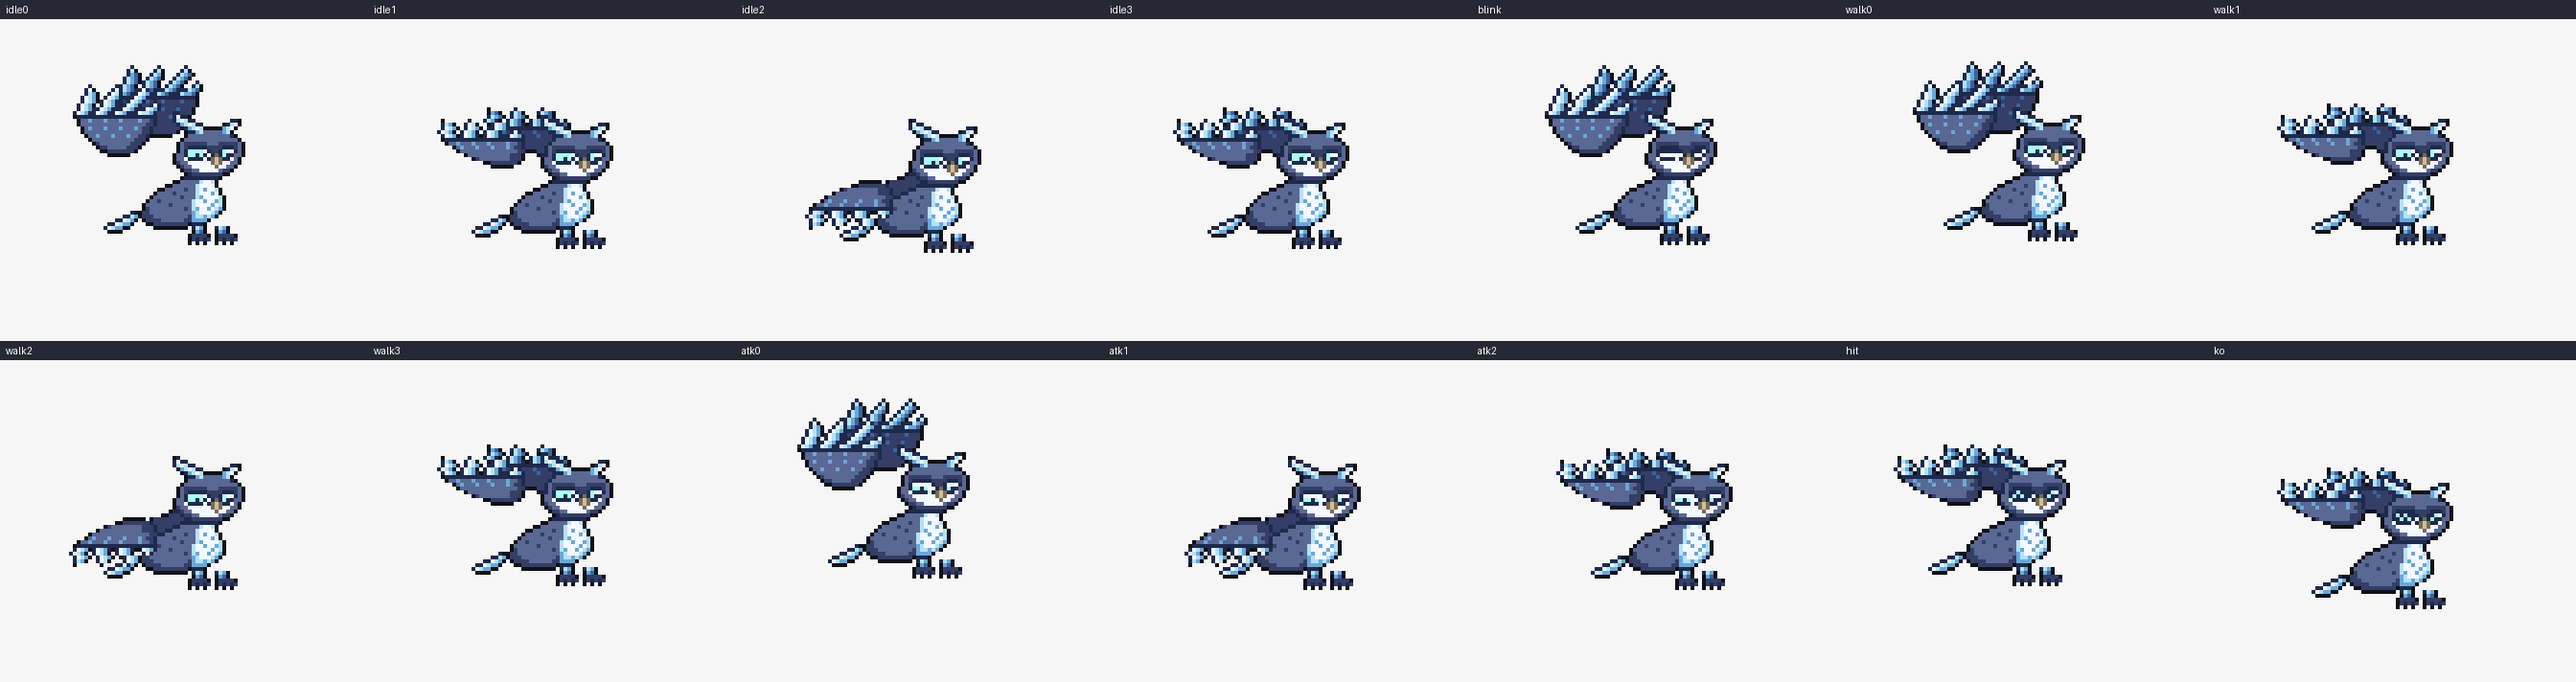
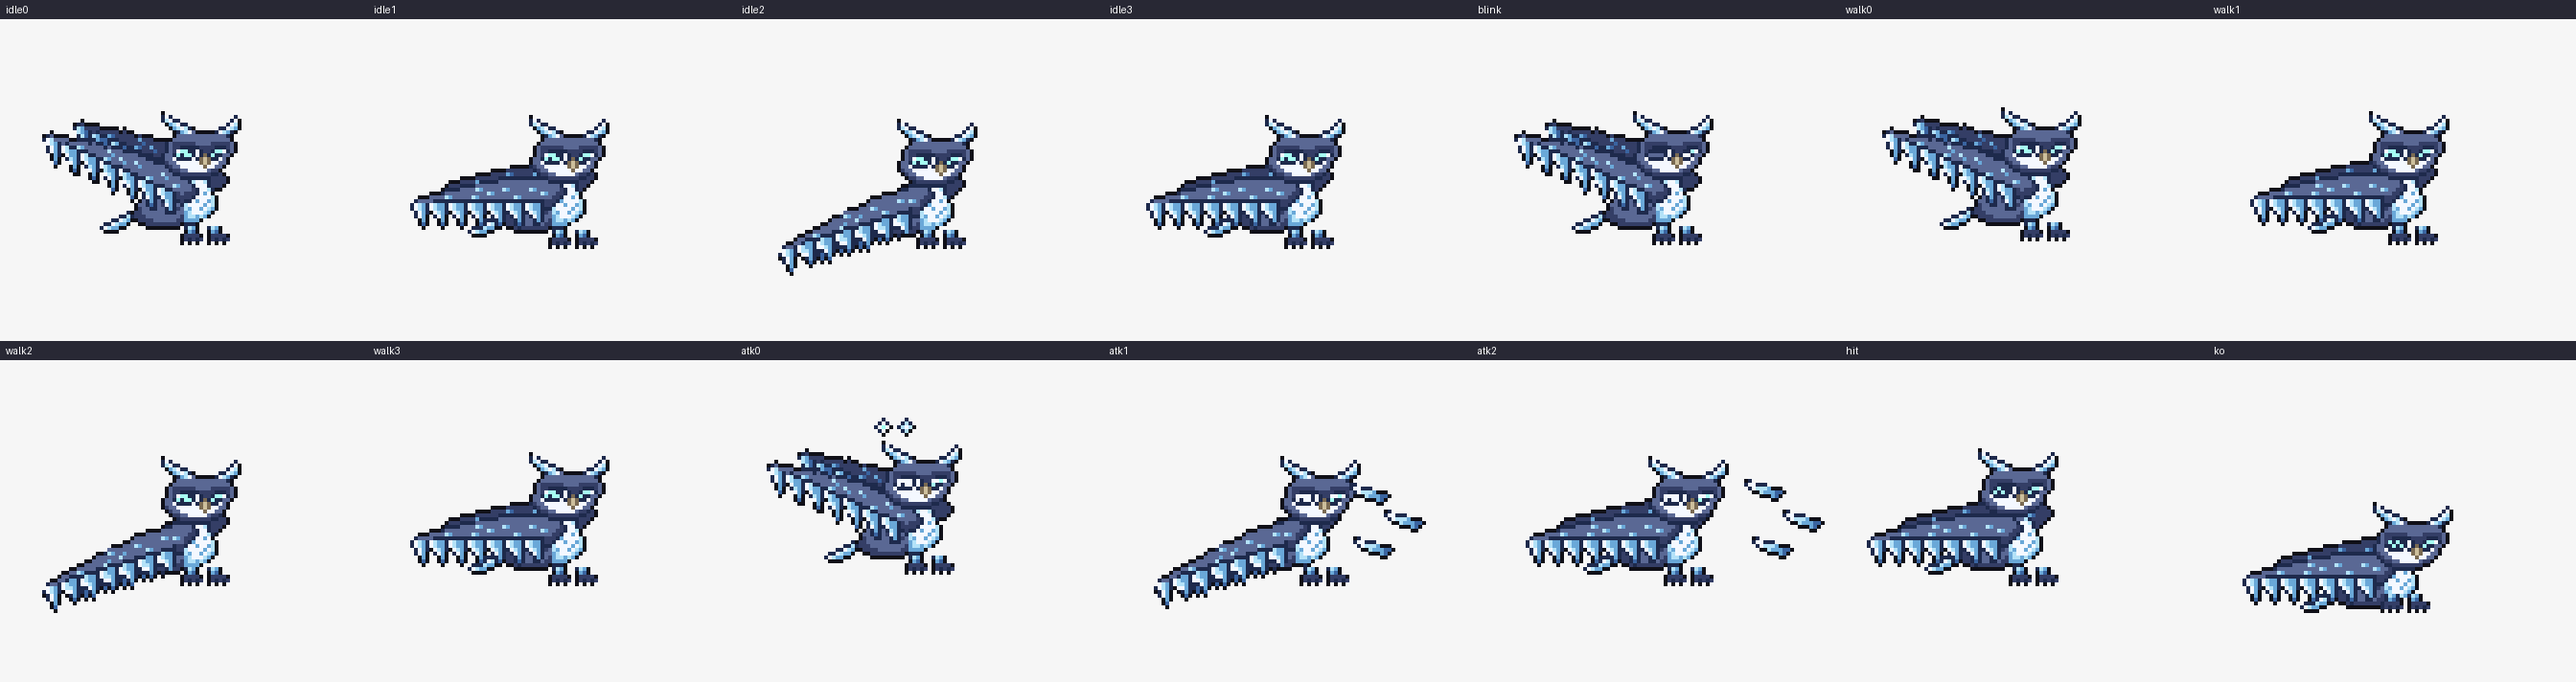
WIP: コオリミミズク 作業中
Claude-Session: https://claude.ai/code/session_01J9mYv3PRYW1GKv9GU2f7rQ

diff --git a/tools/monsters/koorimimizuku/mon.py b/tools/monsters/koorimimizuku/mon.py
@@ -10,28 +10,28 @@ PAL = {
 LIGHT = set('WIEG')
 
 HEAD = [
-    'kk.......................',
-    'kWkk.....................',
-    'kIWIkk.........kkk.......',
-    '.kJIWIkk.....kkIWk.......',
-    '..kkJIWIkkkkkJIWk........',
-    '...kkkJINNNNNJIk.........',
-    '...kNNNNNNNNNNNkk........',
-    '..kNNNNNNNNNNNNNNk.......',
-    '.kNMMMMMMNNNMMMMMNk......',
-    '.kNMkkkkkMMMMkkkMNk......',
-    '.kNkEEEEWkMMkEEWkNk......',
-    'kNNkEEkEkWkgkEkkNNk......',
-    'kNNWkkkkWkgGgkkWNk.......',
-    'kMNNWWWWWWgGgWWNNk.......',
-    '.kMNNWWWWWWgWWNNk........',
-    '..kMMNNWWWWWNMMk.........',
-    '...kkMMMMMMMMkk..........',
-    '.....kkkkkkkk............',
+    'k.....................',
+    'kWk................k..',
+    'kIWkk.............kWk.',
+    '.kJIWkk..........kWIk.',
+    '..kJIWIkk......kkWIJk.',
+    '...kkJIWNkkkkkkWIJkk..',
+    '...kNNNNNNNNNNNNNkk...',
+    '..kNNNNNNNNNNNNNNNk...',
+    '.kNMMMMMMNNNNMMMMMNk..',
+    '.kNMMkkkkkMMMMkkkMNk..',
+    '.kNMkEEEEWkMMkEEWkNk..',
+    'kNNkEEkEkWkgkEkkNNk...',
+    'kNNWkkkkWkgGgkkWNk....',
+    'kMNNWWWWWWgGgWWNNk....',
+    '.kMNNWWWWWWgWWNNk.....',
+    '..kMMNNWWWWWNMMk......',
+    '...kkMMMMMMMMkk.......',
+    '.....kkkkkkkk.........',
 ]
-EYEN = ['EEEEW', 'EEkEk']
-EYEN_ALT = {'blink': ['kkkkk', 'WWWWW'], 'atk0|atk1|atk2': ['WWWWW', 'EEkEW'], 'hit': ['kEkkk', 'EkEkk'], 'ko': ['EkEkk', 'kEkEk']}
-EYEF = ['EW', 'Ek']
+EYEN = ['WEEkk', 'EkEEk']
+EYEN_ALT = {'blink': ['kkkkk', 'NNNNk'], 'atk0|atk1|atk2': ['WWWWk', 'WkWWk'], 'hit': ['kEkkk', 'EkEkk'], 'ko': ['EkEkk', 'kEkEk']}
+EYEF = ['kE', 'Ek']
 EYEF_ALT = {'blink': ['kk', 'WW'], 'atk0|atk1|atk2': ['WW', 'Ek'], 'hit|ko': ['kE', 'Ek']}
 BODY = [
     '..............kkkkk.....',
@@ -57,37 +57,38 @@ TALON = [
     'kMkMkM.kMkMkM',
     'k.k.k..k.k.k.',
 ]
-WING_UP = [
-    '.....k......k......k........',
-    '....kWk....kWk....kWk.......',
-    '....kIJk..kWIk...kWIJk......',
-    '...kWIJk.kWIJk..kWIJk.......',
-    '...kWIJkkWIJk..kWIJk..k.....',
-    '..kWIJk.kWIJk.kWIJk..kWk....',
-    '..kWIJkkWIJkkkWIJkkkWIJk....',
-    '.kWIJkkWIJkkWIJkkkWIIJk.....',
-    '.kkkkkkkkkkkkkkkkkkkkkk.....',
-    '..kNNJNNNJNNNJNNNNJNNMk.....',
-    '..kNNNNNNNNNNNNNNNNNMMk.....',
-    '...kNJNNNJNNNJNNNJNMMk......',
-    '...kNNNNNNNNNNNNNNNMMk......',
-    '....kNNJNNNJNNNJNNMMk.......',
-    '.....kNNNNNNNNNNNMMMk.......',
-    '......kMNNNNNNNNMMMk........',
-    '.......kMMNNNNNMMMk.........',
-    '........kkMMMMMMMk..........',
-    '..........kkkkkk............',
+# 翼：紺の 雨覆いの 下に、つららの 刃の 羽が たれる（横に ひろげた 形を 手で）
+WING_MID = [
+    '.......................kkkkkkkkkkkkkkk...',
+    '..................kkkkkNNNNNNNNNNNNNNNk..',
+    '.............kkkkNNNNNNNNNNNNNNNNNNNNNNk.',
+    '.........kkkkNNNNIJNNNNNIJNNNNNIJNNNNNNMk',
+    '.....kkkkNNNNNNNNNNNIJNNNNNNNNNNNNIJNNMMk',
+    '..kkkNNNNIJNNNNNIJNNNNNNNNNIJNNNNNNNNMMk.',
+    '.kNNNNkkkkkkkkkkkkkkkkkkkkkkkkkkkkkMMMk..',
+    'kWIJkWIJJkWIJJkWIJJkWIJJkWIJJkWIJJkMMk...',
+    'kWIJkWIJJkWIJJkWIJJkWIJJkWIJJkWIJJkkk....',
+    '.kWJkkWIJkkWIJkkWIJkkWIJkkWIJkkWIJk......',
+    '.kWJk.kWJk.kWJk.kWJk.kWJk.kWJk.kWJk......',
+    '..kJk..kJk..kJk..kJk..kJk..kJk..kJk......',
+    '..kKk..kKk..kKk..kKk..kKk..kKk..kk.......',
+    '...k....k....k....k....k....k............',
 ]
-def swept(rows):
-    keep = [r for y, r in enumerate(rows) if y % 3 != 1]
-    H = len(keep); out = []
-    for y, r in enumerate(keep):
-        sh = (H - 1 - y) * 2 // 3
-        out.append(('.' * 12 + r)[sh:])
-    w = max(len(r) for r in out); return [r.ljust(w, '.') for r in out]
-WING_MID = swept(WING_UP)
-WING_DN = pix.flip_v(WING_MID)
+def shear(rows, k):
+    """あたり：翼の 角度を 変える（左の 列ほど 上(k>0)／下(k<0)へ ずらす）"""
+    g = pix.grid_of(rows); H, W = len(g), len(g[0]); m = int((W - 1) * abs(k))
+    out = pix.grid(W, H + m)
+    for x in range(W):
+        sft = int((W - 1 - x) * abs(k))
+        for y in range(H):
+            if g[y][x] != '.':
+                ny = y + (m - sft if k > 0 else sft)
+                out[ny][x] = g[y][x]
+    return pix.rows_of(out)
+WING_UP = shear(WING_MID, 0.45)
+WING_DN = shear(WING_MID, -0.3)
 def dark(rows): return pix.recolor(rows, {'W': 'I', 'I': 'J', 'J': 'K', 'N': 'M'})
+MH = len(WING_UP) - len(WING_MID)
 
 TAIL = [
     '.......kk',
@@ -97,28 +98,49 @@ TAIL = [
     'kWIJJkk...',
     '.kkkk.....',
 ]
+SHARD = ['kk..........', 'kWWkkk......', '.kWIIIJkkk..', '..kkIJJJKKk.', '....kkkJKk..', '.......kk...']
+def volley(pts):
+    g = pix.grid(34, 22)
+    for (x, y) in pts: pix.stamp(g, SHARD, x, y)
+    return pix.rows_of(g)
+VOLLEY1 = volley([(0, 1), (9, 8), (1, 15)])
+VOLLEY2 = volley([(10, 0), (20, 8), (12, 15)])
+FROST = ['..k.....k..', '.kWk...kIk.', 'kWEWk.kIWIk', '.kWk...kIk.', '..k.....k..']
 UP, MID, DN = 'idle0|blink|walk0|atk0', 'idle1|idle3|walk1|walk3|atk2|hit|ko', 'idle2|walk2|atk1'
 def layers():
+    # 肩（翼の 右上）を 体の 背中 (36, 29) あたりに あわせる
     return [
-        dict(n='wingB_up', g='wingB', x=13, y=0, rows=dark(WING_UP), only=UP),
-        dict(n='wingB_mid', g='wingB', x=6, y=10, rows=dark(WING_MID), only=MID),
-        dict(n='wingB_dn', g='wingB', x=6, y=26, rows=dark(WING_DN), only=DN),
-        dict(n='tail', g='body', x=11, y=38, rows=TAIL),
-        dict(n='body', g='body', x=20, y=28, rows=BODY),
-        dict(n='talon', g='talon', x=33, y=42, rows=TALON),
-        dict(n='head', g='head', x=29, y=12, rows=HEAD),
-        dict(n='eyeN', g='head', x=33, y=22, rows=EYEN, alt=EYEN_ALT),
-        dict(n='eyeF', g='head', x=42, y=22, rows=EYEF, alt=EYEF_ALT),
-        dict(n='wingF_up', g='wingF', x=2, y=5, rows=WING_UP, only=UP),
-        dict(n='wingF_mid', g='wingF', x=-6, y=13, rows=WING_MID, only=MID),
-        dict(n='wingF_dn', g='wingF', x=-6, y=28, rows=WING_DN, only=DN),
+        dict(n='wingB_up', g='wingB', x=3, y=26 - MH, rows=dark(WING_UP), only=UP),
+        dict(n='wingB_mid', g='wingB', x=3, y=24, rows=dark(WING_MID), only=MID),
+        dict(n='wingB_dn', g='wingB', x=3, y=25, rows=dark(WING_DN), only=DN),
+        dict(n='tail', g='body', x=10, y=38, rows=TAIL),
+        dict(n='body', g='body', x=18, y=28, rows=BODY),
+        dict(n='talon', g='talon', x=31, y=42, rows=TALON),
+        dict(n='wingF_up', g='wingF', x=-5, y=29 - MH, rows=WING_UP, only=UP),
+        dict(n='wingF_mid', g='wingF', x=-5, y=28, rows=WING_MID, only=MID),
+        dict(n='wingF_dn', g='wingF', x=-5, y=28, rows=WING_DN, only=DN),
+        dict(n='head', g='head', x=26, y=12, rows=HEAD),
+        dict(n='frost', g='head', x=24, y=6, rows=FROST, only='atk0'),
+        dict(n='volley1', g='fx', x=46, y=19, rows=VOLLEY1, only='atk1'),
+        dict(n='volley2', g='fx', x=42, y=19, rows=VOLLEY2, only='atk2'),
+        dict(n='eyeN', g='head', x=30, y=22, rows=EYEN, alt=EYEN_ALT),
+        dict(n='eyeF', g='head', x=39, y=22, rows=EYEF, alt=EYEF_ALT),
     ]
 
 FRAMES = {
-    'idle0': {}, 'idle1': {'root': (0, 1)}, 'idle2': {'root': (0, 2)}, 'idle3': {'root': (0, 1)},
+    'idle0': {},
+    'idle1': {'root': (0, 1)},
+    'idle2': {'root': (0, 2), 'talon': (0, -1)},
+    'idle3': {'root': (0, 1)},
     'blink': {},
-    'walk0': {'root': (0, -1)}, 'walk1': {}, 'walk2': {'root': (0, 1)}, 'walk3': {},
-    'atk0': {'root': (-3, -2)}, 'atk1': {'root': (3, 1)}, 'atk2': {'root': (4, 1)},
-    'hit': {'root': (-4, 0)}, 'ko': {'root': (0, 6)},
+    'walk0': {'root': (0, -1)},
+    'walk1': {},
+    'walk2': {'root': (0, 1), 'talon': (0, -1)},
+    'walk3': {},
+    'atk0': {'root': (-3, -3), 'head': (-1, 0)},
+    'atk1': {'root': (2, 0), 'head': (2, 1), 'talon': (2, 0)},
+    'atk2': {'root': (3, 0), 'head': (1, 1)},
+    'hit': {'root': (-4, 0), 'head': (-2, -1), 'talon': (1, 0)},
+    'ko': {'root': (-2, 10), 'head': (3, 3), 'talon': (0, -3)},
 }
 PARENT = {'head': 'body', 'talon': 'body', 'wingF': 'body', 'wingB': 'body', 'body': 'root', 'fx': 'root'}
